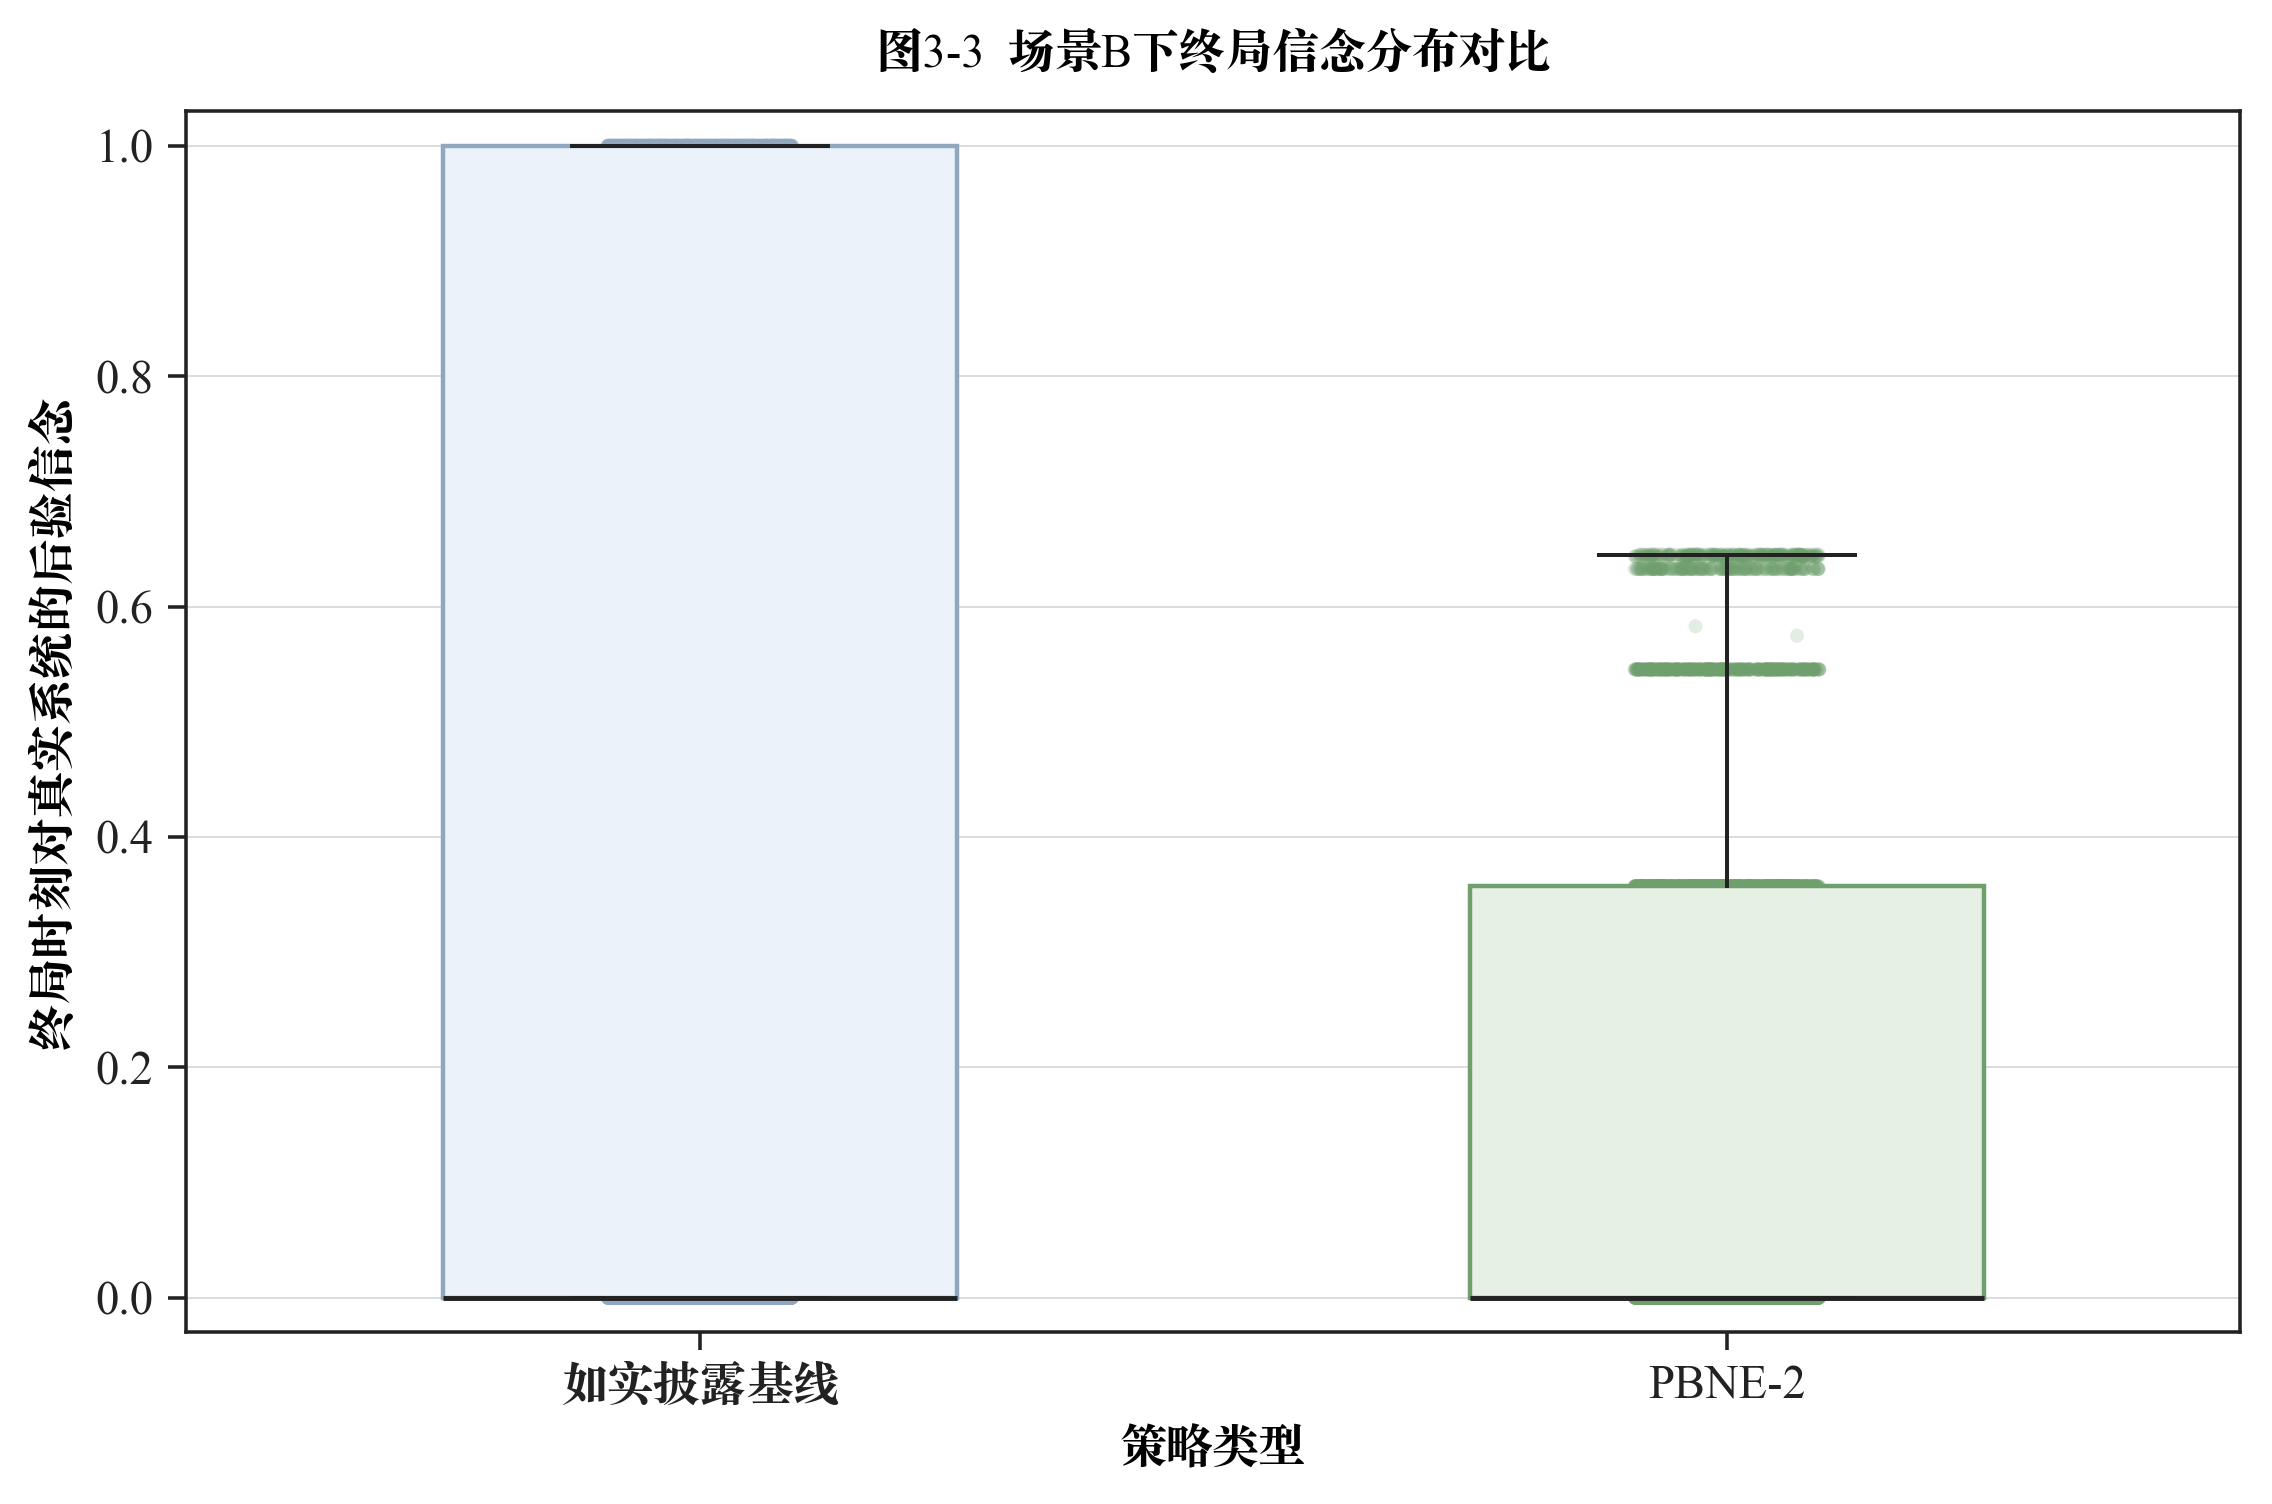
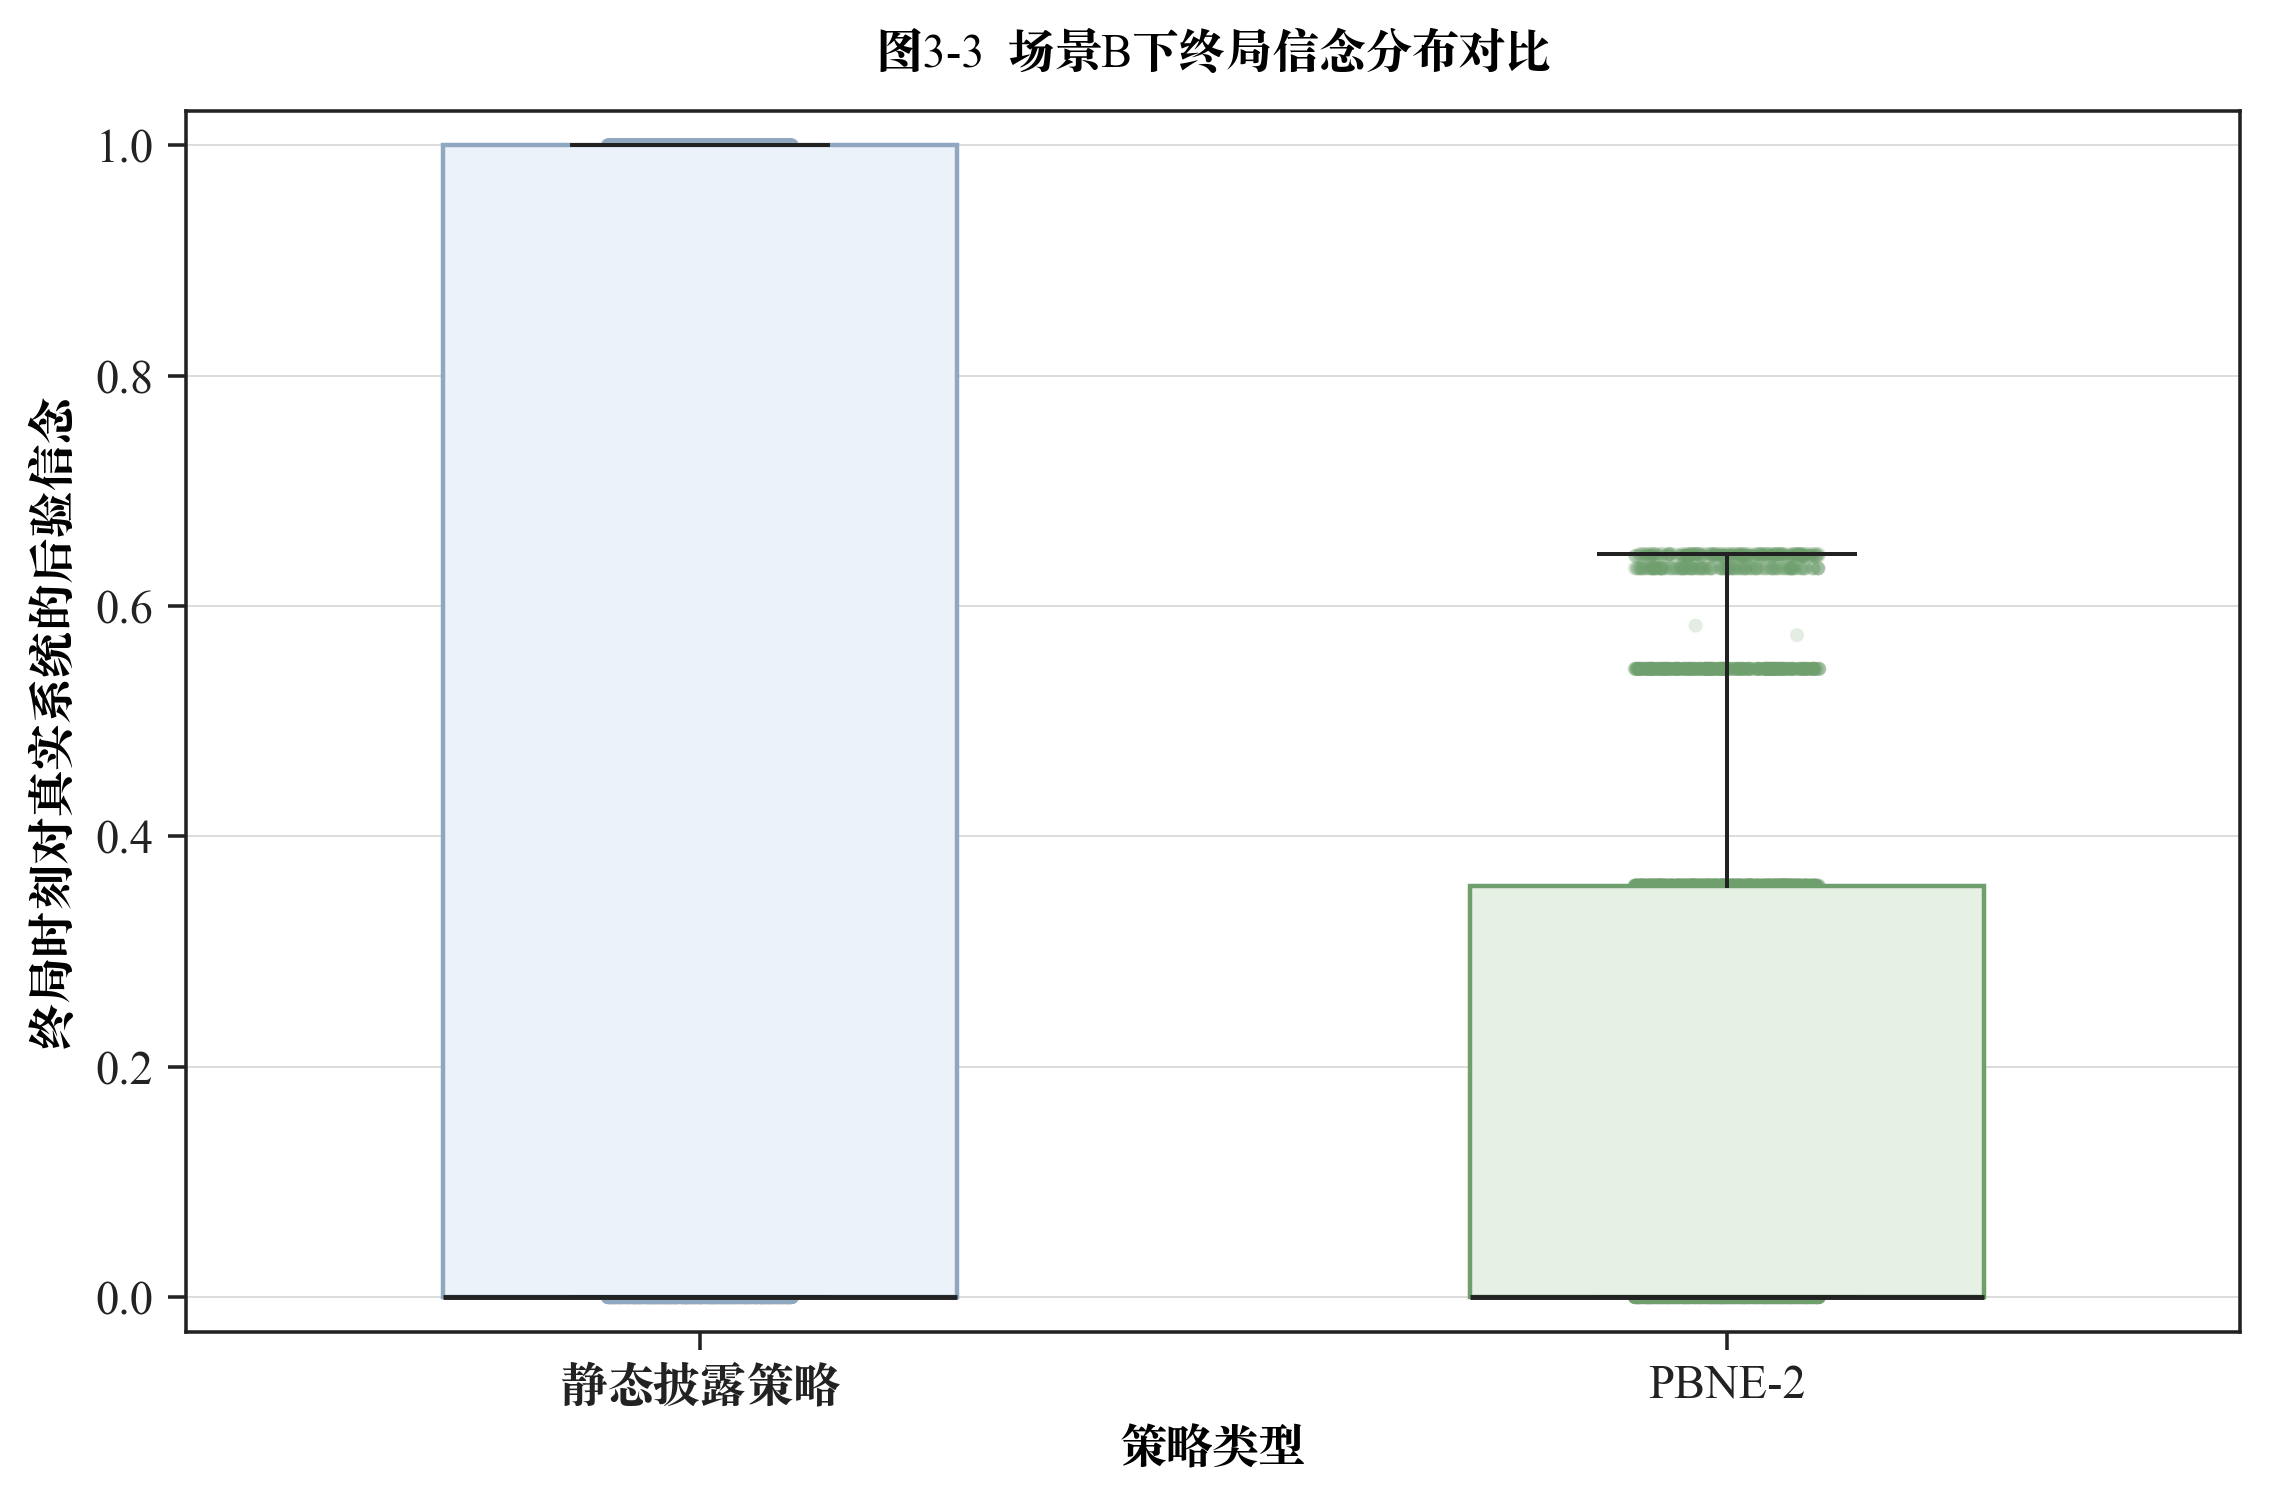
Rename baseline term to static disclosure strategy

Changed region(s): [[0.0, 0.2812, 0.0312, 0.6875], [0.25, 0.9062, 0.375, 0.9375]]

diff --git a/sg_deception_simulation/plot_results.py b/sg_deception_simulation/plot_results.py
@@ -98,7 +98,7 @@ def plot_scenario_utility(feasible: dict) -> None:
         edgecolor=COLOR_BASELINE,
         hatch="//",
         linewidth=0.9,
-        label="如实披露基线",
+        label="静态披露策略",
     )
     bars2 = plt.bar(
         x + width / 2,
@@ -182,7 +182,7 @@ def plot_belief_trajectories(feasible: dict) -> None:
             markersize=4.0,
             elinewidth=0.9,
             capsize=2.5,
-            label="如实披露基线中位数",
+            label="静态披露策略中位数",
         )
         ax.errorbar(
             stages + 0.06,
@@ -249,7 +249,7 @@ def plot_final_belief_distribution(feasible: dict) -> None:
             edgecolors="none",
         )
 
-    ax.set_xticks([1, 2], ["如实披露基线", "PBNE-2"])
+    ax.set_xticks([1, 2], ["静态披露策略", "PBNE-2"])
     plt.xlabel("策略类型", fontproperties=FONT_CN, fontsize=10.5)
     plt.ylabel("终局时刻对真实系统的后验信念", fontproperties=FONT_CN, fontsize=10.5)
     plt.title("图3-3  场景B下终局信念分布对比", fontproperties=FONT_CN, fontsize=10.5, pad=10)
@@ -332,11 +332,11 @@ def build_analysis_text(feasible: dict, sensitivity: dict) -> str:
         "",
         "## 1. 策略对比实验分析",
         "",
-        f"在场景A（真实系统占优场景，p=0.65）下，PBNE-1 的防御者期望效用为 {a_pbne:.4f}，优于如实披露基线的 {a_base:.4f}。这说明当真实系统在目标集合中占据较高比例时，真实系统以一定概率伪装为蜜罐信号，能够有效抑制攻击者的攻击收益预期，并改善防御方总体收益。",
+        f"在场景A（真实系统占优场景，p=0.65）下，PBNE-1 的防御者期望效用为 {a_pbne:.4f}，优于静态披露策略的 {a_base:.4f}。这说明当真实系统在目标集合中占据较高比例时，真实系统以一定概率伪装为蜜罐信号，能够有效抑制攻击者的攻击收益预期，并改善防御方总体收益。",
         "",
-        f"在场景B（蜜罐占优场景，p=0.35）下，PBNE-2 的防御者期望效用为 {b_pbne:.4f}，同样优于如实披露基线的 {b_base:.4f}。这说明当环境中蜜罐比例较高时，蜜罐通过伪装成正常系统可以更有效地吸引攻击者进入陷阱，并为防御方带来更高的情报收益。",
+        f"在场景B（蜜罐占优场景，p=0.35）下，PBNE-2 的防御者期望效用为 {b_pbne:.4f}，同样优于静态披露策略的 {b_base:.4f}。这说明当环境中蜜罐比例较高时，蜜罐通过伪装成正常系统可以更有效地吸引攻击者进入陷阱，并为防御方带来更高的情报收益。",
         "",
-        "从信念演化结果看，如实披露基线下攻击者的后验信念变化较为单调，其判断主要由单次观测迅速锁定；而在 PBNE 伪装策略下，攻击者对目标是否为真实系统的判断呈现更明显的阶段性波动。这表明防御方通过混合伪装策略改变了攻击者的推断路径，验证了多阶段信号博弈中“策略随机化影响信念更新”的核心机理。",
+        "从信念演化结果看，静态披露策略下攻击者的后验信念变化较为单调，其判断主要由单次观测迅速锁定；而在 PBNE 伪装策略下，攻击者对目标是否为真实系统的判断呈现更明显的阶段性波动。这表明防御方通过混合伪装策略改变了攻击者的推断路径，验证了多阶段信号博弈中“策略随机化影响信念更新”的核心机理。",
         "",
         "## 2. 参数敏感性分析",
         "",

diff --git a/sg_deception_simulation/results/analysis_notes.md b/sg_deception_simulation/results/analysis_notes.md
@@ -2,11 +2,11 @@
 
 ## 1. 策略对比实验分析
 
-在场景A（真实系统占优场景，p=0.65）下，PBNE-1 的防御者期望效用为 -5.1416，优于如实披露基线的 -7.7880。这说明当真实系统在目标集合中占据较高比例时，真实系统以一定概率伪装为蜜罐信号，能够有效抑制攻击者的攻击收益预期，并改善防御方总体收益。
+在场景A（真实系统占优场景，p=0.65）下，PBNE-1 的防御者期望效用为 -5.1416，优于静态披露策略的 -7.7880。这说明当真实系统在目标集合中占据较高比例时，真实系统以一定概率伪装为蜜罐信号，能够有效抑制攻击者的攻击收益预期，并改善防御方总体收益。
 
-在场景B（蜜罐占优场景，p=0.35）下，PBNE-2 的防御者期望效用为 5.8090，同样优于如实披露基线的 -4.2300。这说明当环境中蜜罐比例较高时，蜜罐通过伪装成正常系统可以更有效地吸引攻击者进入陷阱，并为防御方带来更高的情报收益。
+在场景B（蜜罐占优场景，p=0.35）下，PBNE-2 的防御者期望效用为 5.8090，同样优于静态披露策略的 -4.2300。这说明当环境中蜜罐比例较高时，蜜罐通过伪装成正常系统可以更有效地吸引攻击者进入陷阱，并为防御方带来更高的情报收益。
 
-从信念演化结果看，如实披露基线下攻击者的后验信念变化较为单调，其判断主要由单次观测迅速锁定；而在 PBNE 伪装策略下，攻击者对目标是否为真实系统的判断呈现更明显的阶段性波动。这表明防御方通过混合伪装策略改变了攻击者的推断路径，验证了多阶段信号博弈中“策略随机化影响信念更新”的核心机理。
+从信念演化结果看，静态披露策略下攻击者的后验信念变化较为单调，其判断主要由单次观测迅速锁定；而在 PBNE 伪装策略下，攻击者对目标是否为真实系统的判断呈现更明显的阶段性波动。这表明防御方通过混合伪装策略改变了攻击者的推断路径，验证了多阶段信号博弈中“策略随机化影响信念更新”的核心机理。
 
 ## 2. 参数敏感性分析
 
